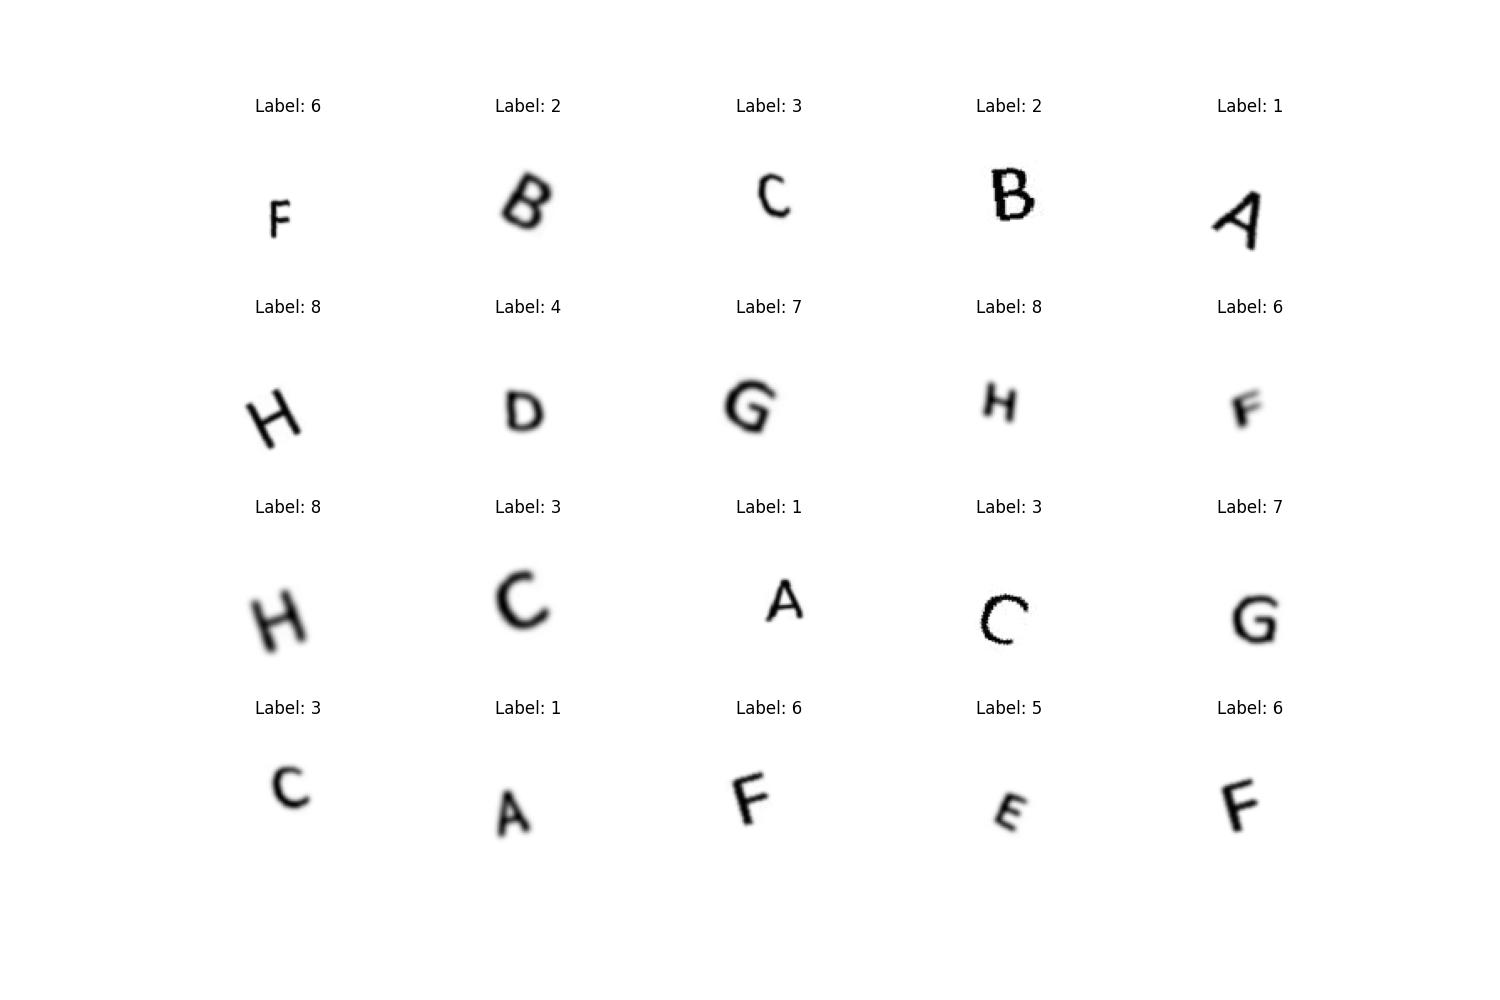
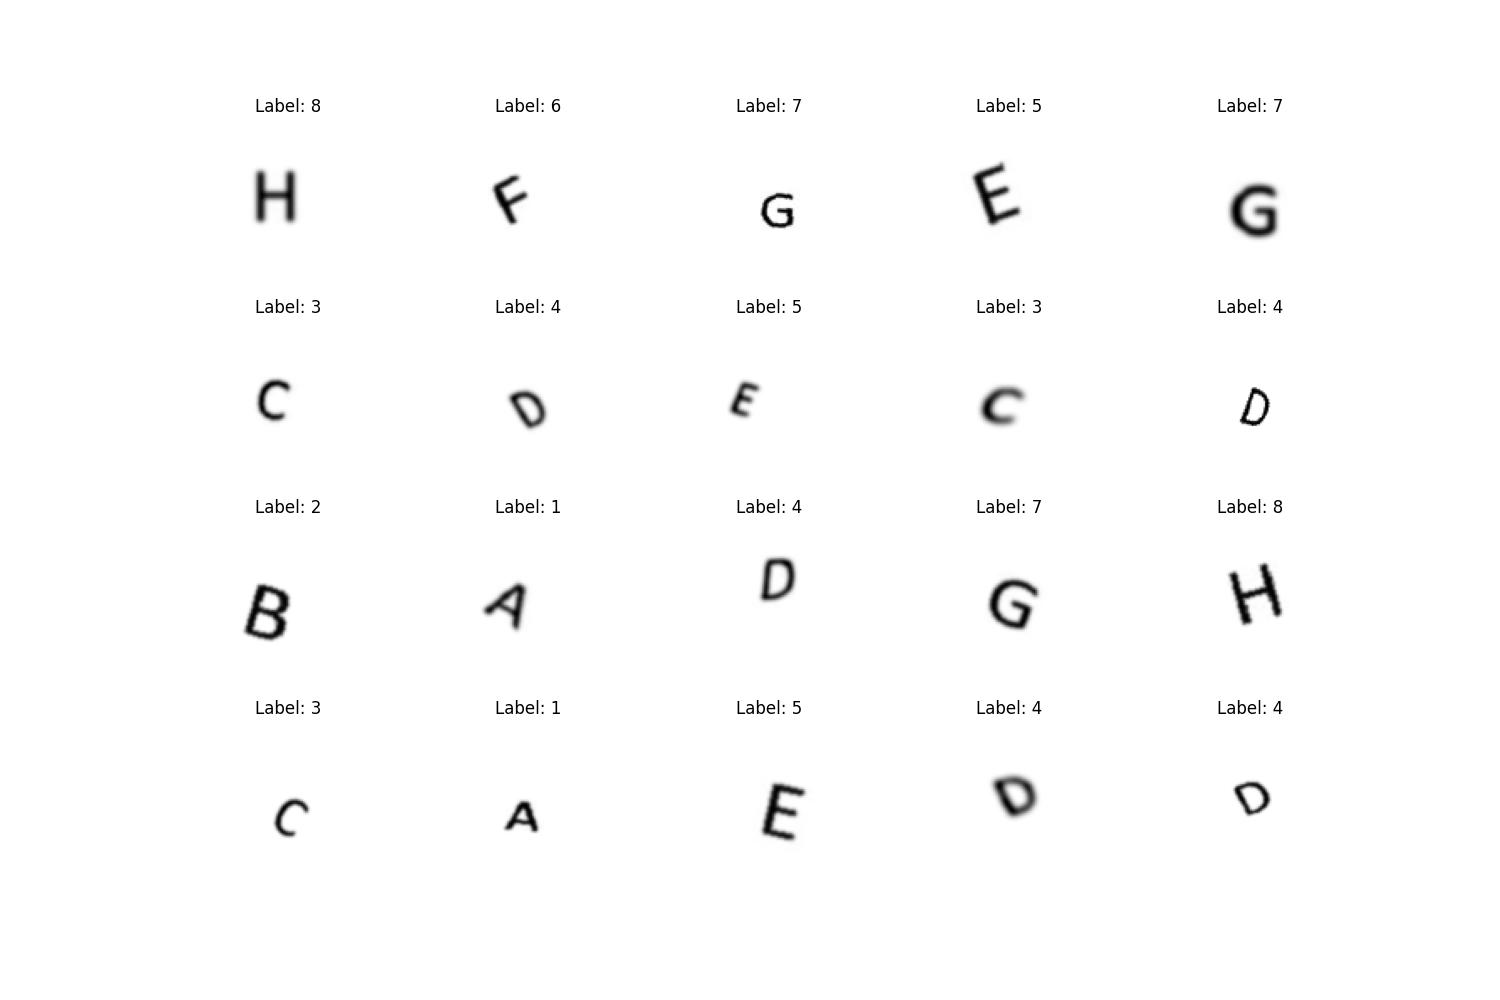
différentes mises à jour

diff --git a/ReconnaissanceImages/datasets/config.py b/ReconnaissanceImages/datasets/config.py
@@ -1,8 +1,8 @@
 # dossier des images
-image_path = "numbers"
+image_path = "letters"
 
 # version de la configuration
-version = 9
+version = 10
 
 # Taille des images qui serviront à entraîner le modèle
 image_size = 50
@@ -11,7 +11,7 @@ image_size = 50
 padding = 25
 
 # Taille du dataset
-N = 1250*5*8
+N = 1250*10*8
 
 # Epoques pur l'entraînement
 epochs = 50

diff --git a/RP2040 Micro/README.md b/RP2040 Micro/README.md
@@ -1,0 +1,7 @@
+
+https://www.elektor.fr/products/raspberry-pi-pico-rp2040-w#:~:text=Raspberry%20Pi%20RP2040.-,La%20puce%20microcontr%C3%B4leur%20RP2040%20(Raspberry%20Silicon)%20offre%20un%20processeur%20ARM,du%20code%20et%20des%20donn%C3%A9es.
+
+https://datasheets.raspberrypi.com/picow/pico-w-datasheet.pdf
+
+https://projects.raspberrypi.org/en/projects/getting-started-with-the-pico/3
+
